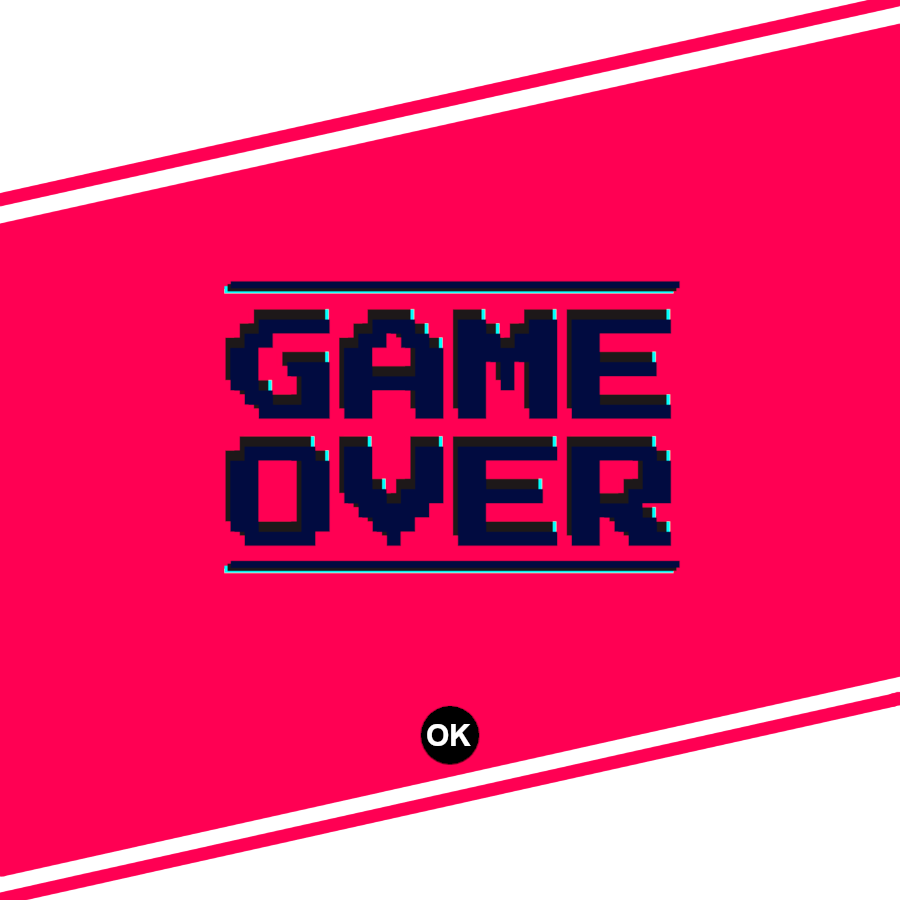
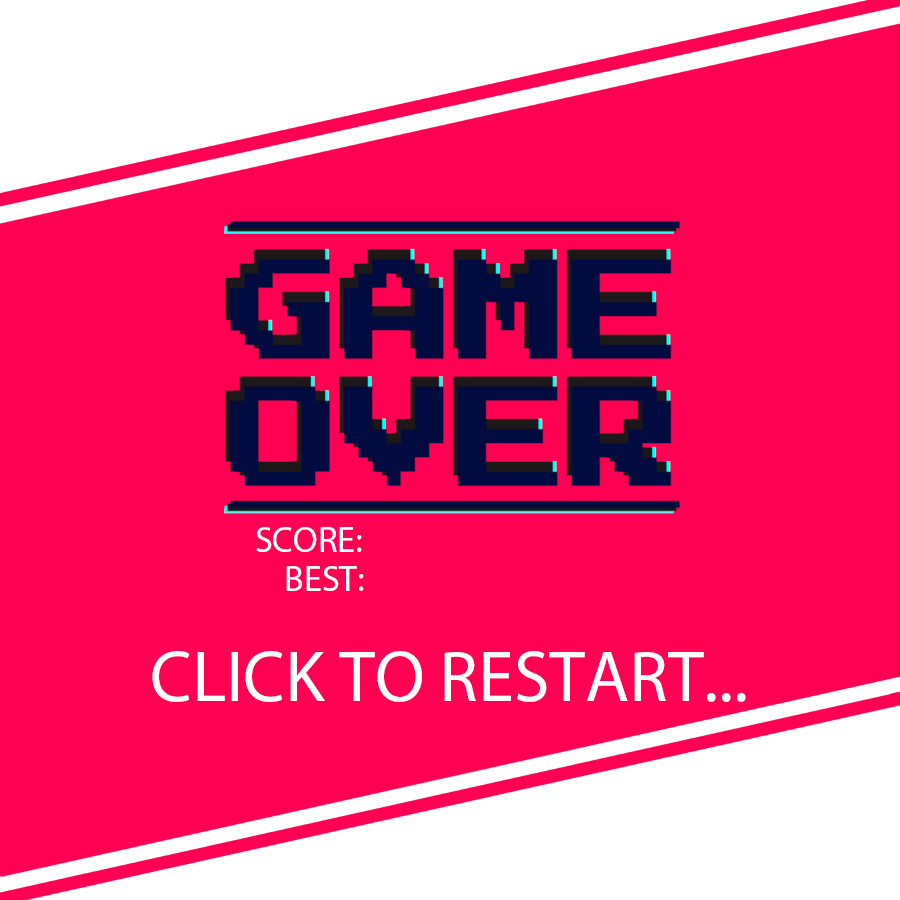
jhfguj

Changed region(s): [[0.2489, 0.2178, 0.7778, 0.6533], [0.1556, 0.7156, 0.8089, 0.8711]]

diff --git a/script.js b/script.js
@@ -3,8 +3,15 @@ const ctx = canvas.getContext('2d');
 const canvasw = canvas.width = 900;
 const canvash = canvas.height = 900;
 
+const startScreen = new Image();
+startScreen.src = 'img/startscreen.png';
+const endScreen = new Image();
+endScreen.src = 'img/endscreen.png';
+
 let requestId;
+requestId = requestAnimationFrame(animate);
 let game;
+let screen = 1;
 
 let speed = 10;
 let egerut = 1;
@@ -52,30 +59,42 @@ let x2 = -2000;
 let count = 0;
 
 function start() {
-    game = true;
-    playerPos = 450;
-    playerMoving = 0;
-    speed = 10;
-    egerut = 1;
-    points = 0;
-    deathList = [];
-    kocsik = [];
-    x1 = 0;
-    x2 = -2000;
-    count = 0;
-    requestId = requestAnimationFrame(animate);
-    startButton.style.display = 'none';
+    if (!game) 
+    {
+        game = true;
+        playerPos = 450;
+        playerMoving = 0;
+        speed = 10;
+        egerut = 1;
+        points = 0;
+        deathList = [];
+        kocsik = [];
+        x1 = 0;
+        x2 = -2000;
+        count = 0;
+        startButton.style.display = 'none';
+        requestId = requestAnimationFrame(animate);
+    }
 }
 
 function lose() {
     game = false;
     if (points > maxPoints) maxPoints = points;
     cancelAnimationFrame(requestId);
-    ctx.clearRect(0, 0, canvasw, canvash);
-    startButton.style.display = 'block';
+    screen = 2;
 }
 
 function animate() {
+    if(screen == 1)
+    {
+        ctx.clearRect(0, 0, canvasw, canvash);
+        ctx.drawImage(startScreen, 0, 0);
+    }
+    if(screen == 2)
+    {
+        ctx.drawImage(endScreen, 0, 0)
+    }
+
     if (game)
     {
         ctx.clearRect(0, 0, canvasw, canvash);
@@ -94,7 +113,7 @@ function animate() {
         if (count % 60 == 0) {
             points += 1;
         }
-        
+
         requestId = requestAnimationFrame(animate);
     }
 }

diff --git a/index.html b/index.html
@@ -7,9 +7,9 @@
     <link rel="stylesheet" href="style.css">
 </head>
 <body>
-    <div class="game">
+    <div class="game" onclick="start()">
         <canvas id="canvas" width="900" height="900"></canvas>
-        <button type="button" id="start" onclick="start()">START</button>
+        <div id="start" onclick="start()"></div>
     </div>
     <script src="script.js"></script>
 </body>

diff --git a/style.css b/style.css
@@ -8,12 +8,8 @@
 }
 
 #start {
+    width: 587px;
+    height: 186px;
     position: absolute;
-    top: 33%;
-    display: block;
-    background-color: greenyellow;
-    border-radius: 50%;
-    font-size: 100px;
-    color: white;
-    padding: 5%;
+    top: 44.5%;
 }
